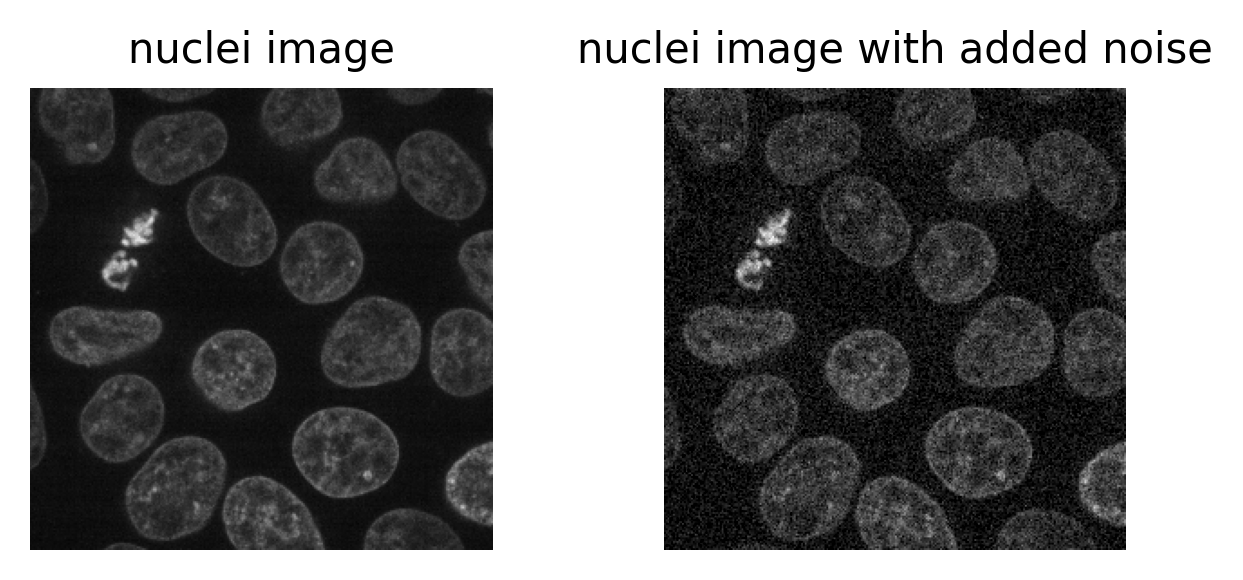
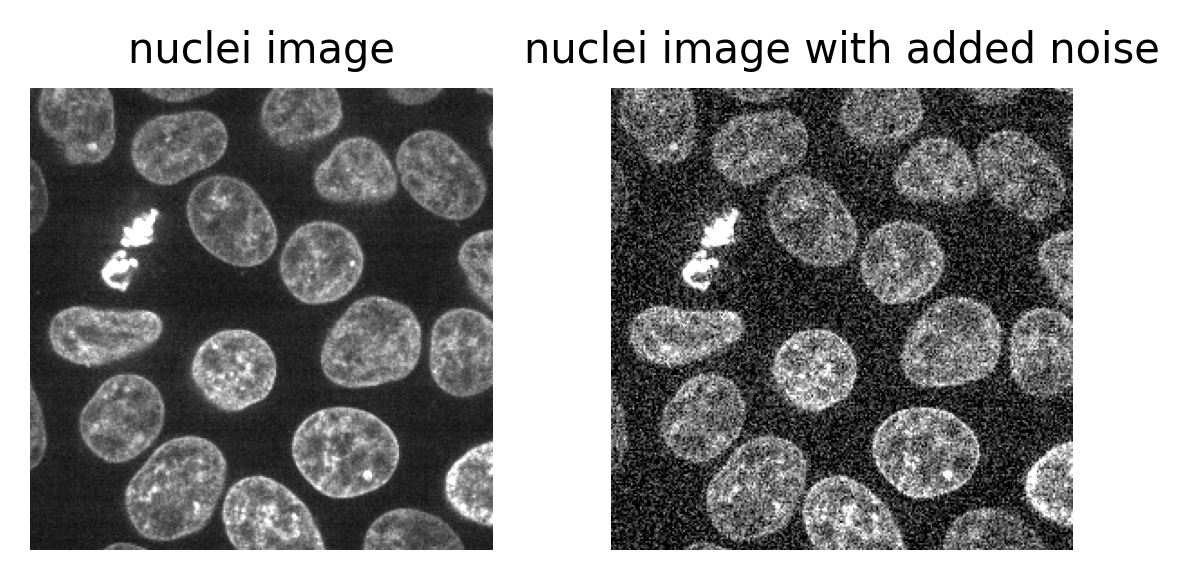
revise acquisition settings episode

diff --git a/episodes/files/choosing_acquisition_settings_plots/image_with_noise.py b/episodes/files/choosing_acquisition_settings_plots/image_with_noise.py
@@ -23,10 +23,11 @@ def generate_image_with_noise(save_dir):
     nucleus_noisy = nucleus + np.random.normal(scale=5000.0, size=nucleus.shape)
 
     fig, all_axes = plt.subplots(1, 2)
+    fig.subplots_adjust(wspace=0)
     fig.set_size_inches(5, 2)
 
     min = 0
-    max = 65535
+    max = 29713
     plot_image(nucleus, min, max, plt.cm.gray, all_axes[0], "nuclei image")
     plot_image(nucleus_noisy, min, max, plt.cm.gray, all_axes[1], "nuclei image with added noise")
 

diff --git a/episodes/choosing-acquisition-settings.md b/episodes/choosing-acquisition-settings.md
@@ -40,22 +40,23 @@ as well as looking at some early quality control steps.
 ## Acquisition settings
 
 Once you've chosen a light microscope to use, there are a wide variety of 
-acquisition settings that can be adjusted. For example, magnification, laser 
-power, exposure time... Different combinations of settings will be best for 
-different samples and research questions. For example, one combination of 
+acquisition settings that can be adjusted. Acquisition settings commonly 
+optimised for an experiment include magnification, laser power, and exposure 
+time, but there are many others. Different combinations of settings will be best 
+for different samples and research questions. For example, one combination of 
 settings may be best for rapid live cell imaging, while another may be best for 
 high resolution imaging of fixed samples.
 
 There are many different factors that are affected by acquisition settings, but 
-here are some of the main ones to consider:
+here are some of the main ones to consider.
 
 ## Spatial resolution
 
-Spatial resolution is the resolution in 2D (x and y), or 3D (x, y and z). It is 
-defined as the smallest distance between two points on a sample that can still 
-be seen as separate entities. For example, a resolution of one micrometre would 
-mean that objects less than one micrometre apart couldn't be identified 
-separately (i.e. they would appear as one object).
+Spatial resolution is defined as the smallest distance between two adjacent 
+points on a sample that can still be seen as separate entities. In 2D, this is 
+measured in x and y, while in 3D it is measured in x, y and z. For example, a 
+resolution of one micrometre would mean that objects less than one micrometre 
+apart couldn't be identified separately (i.e. they would appear as one object).
 
 Spatial resolution is affected by many factors including the wavelength of light 
 and the [numerical aperture (NA)
@@ -69,6 +70,21 @@ datasets, where the x/y resolution tends to be better than the z resolution.
 
 We'll look at spatial resolution in more detail [later in this episode
 ](#resolution-vs-pixel-size).
+
+:::::::::::::::::::::::::::::::::::::: callout
+
+## Spatial resolution and optical resolution
+
+In this episode, we use 'spatial resolution' to refer to the resolution limits 
+of the light microscope. Note that sometimes 'spatial resolution' is also used 
+to refer to the final image pixel size (as we will look at [later in this 
+episode](#resolution-vs-pixel-size)). Due to this ambiguity, you may also see 
+the microscope's resolution referred to as 'optical resolution' to clearly 
+distinguish it from pixel size.
+
+::::::::::::::::::::::::::::::::::::::
+
+
 
 ## Temporal resolution
 
@@ -94,7 +110,8 @@ as much light as possible in these short timescales.
 The field of view is the size of the area you can view with your light 
 microscope. It is often measured as a diameter in millimetres. A larger field of 
 view is useful if you want to, for example, observe a large number of cells at 
-the same time.
+the same time. This can quickly increase your sample size, providing 
+improved statistical power (as covered in the [last episode](designing-a-light-microscopy-experiment.md#define-what-you-need-to-measure)).
 
 The field of view is affected by many factors but, importantly, is directly 
 related to the magnification of the objective lens. Higher levels of 
@@ -106,6 +123,26 @@ then be stitched together (often with the microscope manufacturer's acquisition
 software), to give one large final image. This method can provide high 
 resolution images of large areas, but also slows down overall acquisition times.
 
+## Depth penetration
+
+Depth penetration refers to the distance light can penetrate into your sample 
+(in the z direction). It therefore controls the maximum z range that you can 
+image over - for example, a specific confocal microscope may be limited to a 
+maximum depth of 50 micrometre. 
+
+Depth penetration is limited due to samples absorbing and scattering light that 
+passes through them. Various factors control the penetration depth - for 
+example, the density of the sample and the wavelength of light used during 
+imaging. Various [tissue clearing
+](https://www.nature.com/articles/s43586-021-00080-9) methods exist that can 
+help to make a sample more transparent, and allow imaging at greater depths. 
+Also, the use of longer wavelengths of light can reduce absorption/scattering 
+and increase depth penetration. This comes at the cost of decreased spatial 
+resolution (as we covered in the [spatial resolution section
+](#spatial-resolution)). For very thick samples, you will likely need to use a 
+microscope specialised for this task e.g. a [multiphoton microscope
+](https://www.microscopyu.com/techniques/multi-photon/multiphoton-microscopy).
+
 ## Data size
 
 It's important to consider the overall size of your imaging data (e.g. in 
@@ -115,14 +152,15 @@ file storage space that is regularly backed up.
 
 The overall size of your data will depend on many factors. For example, 
 increasing your resolution will increase the size of your final images, 
-especially if you are covering a large area by stitching in x/y.
+especially if you are covering a large area by stitching multiple images taken 
+at different positions together.
 
 ## Light exposure (i.e phototoxicity / photobleaching)
 
 Illuminating our samples with light is an essential part of collecting light 
-microscopy images. This being said, we have to be very careful of the 
-detrimental effects light can have on our samples, especially at high intensity 
-over long time periods. 
+microscopy images. However, we must also be mindful of the detrimental effects 
+light can have on our samples, especially at high intensity over long time 
+periods. 
 
 Photobleaching is a key issue for fluorescence microscopy. If a fluorophore is 
 exposed to intense light, its structure can degrade over time. This means that 
@@ -132,9 +170,9 @@ Another issue is phototoxicity. Light exposure can damage cells resulting in
 unexpected changes in cell behaviour, morphology and eventually cell death.
 
 Reducing the effects of photobleaching and phototoxicity requires minimising the 
-light exposure of our samples as much as possible. For example, reducing 
-light/laser power, reducing exposure time/dwell time, imaging at lower temporal 
-resolution...
+light exposure of our samples as much as possible. Light exposure can be 
+reduced through many methods, including reducing light/laser power, reducing 
+exposure time/dwell time, and imaging at lower temporal resolution.
 
 ## Signal to noise ratio
 
@@ -146,8 +184,10 @@ The 'signal' is what we really want to measure - for example, for a fluorescence
 microscopy image, this would be the light emitted by fluorophores in the sample. 
 In an ideal world the detector would perfectly measure the light intensity, but 
 this isn't really possible. The values the detector records will always be 
-affected by random fluctuations called 'noise'. This noise usually appears as a 
-random 'graininess' over the image and can make details difficult to see.
+affected by random fluctuations called 'noise' (see the ['where does noise 
+come from?'](#where-does-noise-come-from) section for more information). This 
+noise usually appears as a random 'graininess' over the image and can make 
+details difficult to see.
 
 ![](fig/image-with-noise.png){alt="Left - the nuclei from Napari's Cells 
 (3D+2Ch) sample image. Right - same image with added gaussian noise"}
@@ -162,19 +202,23 @@ left is the ideal scenario, where there is no noise, and we perfectly see one
 value of 20 and one of 30. The middle shows the addition of some noise to each 
 value, resulting in wider distributions that overlap extensively. This means 
 that in the combined histogram of these values (right) it becomes impossible to 
-clearly distinguish these two values.
+clearly distinguish these two values. Note - here the added noise is a gaussian 
+distribution centred on each value (i.e. 20 and 30) with a standard deviation of 
+10 and 1000 samples - you can read more about gaussian noise in the [noise chapter
+](https://bioimagebook.github.io/chapters/3-fluorescence/3-formation_noise/formation_noise.html) 
+of Pete Bankhead's bioimage book.
 
 ![](fig/snr-comparison-low.png){alt="Diagram of a low signal-to-noise scenario. 
 Left - histogram with no noise. Middle - histogram with added noise (separate 
 histograms). Right - histogram with added noise (combined histogram)."}
 
 If we imagine a scenario with higher signal, now values of 80 and 120 (one still 
-1.5x higher than the other), then we can see that the addition of the same noise 
-has a much less drastic effect. As the values are now higher and further apart, 
-the broadening of their distributions only causes them to overlap slightly. We 
-can still clearly distinguish the values in the combined histogram on the right. 
-This demonstrates how increasing the signal to noise ratio can improve our 
-ability to recognise and measure different features.
+1.5x higher than the other), then we can see that adding the same level of noise 
+has less effect. As the values are now higher and further apart, the broadening 
+of their distributions only causes them to overlap slightly. We can still 
+clearly distinguish the values in the combined histogram on the right. This 
+demonstrates how increasing the signal to noise ratio can improve our ability to 
+recognise and measure different features.
 
 ![](fig/snr-comparison-high.png){alt="Diagram of a high signal-to-noise scenario. 
 Left - histogram with no noise. Middle - histogram with added noise (separate 
@@ -227,17 +271,18 @@ hit the detector - no detector is perfect, so there will always be some variatio
 
 ## Optimising acquisition settings
 
-In an ideal world we could produce the 'perfect' image that optomised for all of 
+In an ideal world we could produce the 'perfect' image that optimised for all of 
 the features above: high spatial resolution, high temporal resolution, large 
-field of view, small data size, low light exposure and high signal to noise 
-ratio. This is never possible though! There are always trade-offs and 
-compromises to be made. These different factors are inter-related, usually 
-meaning that optomising for one will reduce the others. For example, increasing 
-spatial resolution requires a reduced field of view and an increased overall 
-data size. As each pixel covers a smaller area, resulting in less signal per 
-pixel, you will likely need to increase light exposure to achieve a reasonable 
-signal to noise ratio. This may mean using higher light intensity, or imaging 
-more slowly (with increased dwell time/exposure time).
+field of view, large depth penetration, small data size, low light exposure and 
+high signal to noise ratio. This is never possible though! There are always 
+trade-offs and compromises to be made. These different factors are 
+inter-related, usually meaning that optimising for one will be at the expense of 
+the others. For example, increasing spatial resolution requires a reduced field 
+of view, and it will increase the overall data size. As each pixel covers a 
+smaller area, resulting in less signal per pixel, you will likely need to 
+increase light exposure to achieve a comparable signal to noise ratio. This may 
+mean using higher light intensity, or imaging more slowly (with increased dwell 
+time/exposure time).
 
 ![](fig/acquisition-tradeoffs.png){alt="Diagram highlighting some of the 
 trade-offs of increasing spatial resolution" width="80%"}
@@ -245,7 +290,7 @@ trade-offs of increasing spatial resolution" width="80%"}
 Different microscopes will provide different ranges for these features - for 
 example, supporting different ranges of spatial or temporal resolution, or 
 providing detectors with different sensitivity that require higher or lower 
-light intensity. Acqusition settings then allow you to fine-tune how that 
+light intensity. Acquisition settings then allow you to fine-tune how that 
 microscope functions, optimising within these ranges for your particular sample 
 and research question. For example, do you need to prioritise temporal 
 resolution for a highly dynamic process? Or perhaps is spatial resolution the 
@@ -293,7 +338,10 @@ times. We must balance this against signal to noise ratio though.
 As we are taking many images over a long timescale, our data size could become 
 very large. To minimise this, we should make sure we are using the lowest 
 spatial resolution possible (that still lets us see individual nucleus 
-size/shape). Also, we should ensure we are using an appropriate interval between 
+size/shape). Usually this means selecting a lower NA objective lens (which is 
+usually also a lower magnification objective lens). 
+
+Also, we should ensure we are using an appropriate interval between 
 our images. For example, do you need an image every minute? Or is every ten 
 minutes fine? Longer intervals will reduce the size of your final dataset.
 
@@ -314,6 +362,13 @@ provides enough spatial resolution to see individual nuclei. Alternatively, we
 will need to stitch images together from multiple positions - although this will 
 slow down acquisition, and must be balanced against the required temporal 
 resolution!
+
+### Depth penetration
+
+As we are considering cells grown in culture (rather than in thick tissues), 
+depth penetration isn't a key concern here. This means we shouldn't have to, for 
+example, limit ourselves to fluorophores with longer emission wavelengths, or 
+require any additional preparation steps like tissue clearing.
 
 :::::::::::::::::::::::::::::::::
 
@@ -428,11 +483,10 @@ displayed at 9cm wide, then the result will be the same, 5000x.
 
 ::::::::::::::::::::::::::::::::::::::::::::::::
 
-### Choosing spatial resolution
+### Choosing magnification, spatial resolution and pixel size
 
 Now that we understand the difference between magnification, resolution and 
-pixel size - how do we go about choosing the spatial resolution to use in our 
-experiments? 
+pixel size - how do we go about choosing their values for our experiments? 
 
 The most important thing is to only use the level of resolution that you really 
 require to answer your research question. For example, say you were researching 
@@ -443,9 +497,78 @@ the larger layers could be seen at much lower resolution, allowing you to image
 a larger area faster, while also keeping your data size as small as possible. 
 Don't increase your resolution without a good reason!  
 
-Equally, you have to be careful not to set your resolution too low. Make sure 
-that it is high enough to resolve the smallest structure you want to be able to 
-see and measure.
+[As discussed above](#spatial-resolution), a number of factors affect the 
+spatial resolution - but one of the most important is your choice of objective 
+lens. Each microscope will usually have a selection of objective lenses 
+available (each with a different magnification and numerical aperture (NA)). In 
+general, higher NA lenses (which provide a higher spatial resolution) will also 
+provide higher levels of magnification. Choose the lowest NA/magnification 
+objective that still provides enough spatial resolution to resolve the smallest 
+structure you want to be able to see and measure. Table 1 of [Jonkman et al.'s 
+2020 paper](https://www.nature.com/articles/s41596-020-0313-9) provides a nice 
+summary of some common objective lenses.
+
+The pixel size of your final image should be matched appropriately to your 
+chosen objective lens (and therefore the spatial resolution/magnification used). 
+This is usually set to satisfy 'Nyquist sampling' which states that the pixel 
+size should be two to three times smaller than the smallest feature you want to 
+capture in your images. Let's look at a quick example of why this is necessary. 
+
+Consider the diagram below - on the left is shown two round cells (blue) that 
+have a diameter of 10 micrometre and are overlaid by a pixel grid with the same 
+spacing. On the right is shown the equivalent final image, using a rough 
+grayscale colourmap (black = 0, white = maximum).
+
+![](fig/nyquist-1.png){alt="Left - a diagram of two round cells (blue, 10 
+micrometre wide) overlaid by a perfectly aligned 10 micrometre pixel grid. 
+Right - the equivalent image with a grayscale colormap" width="80%"}
+
+When the cells lie at the centre of each pixel, we can easily detect them as 
+separate objects in our final image. The issue comes when the cells are offset 
+from the pixel grid - which will happen very regularly in a real life scenario! 
+Keeping the same 10 micrometre spacing, but offsetting the grid slightly results 
+in a final image where where we can no longer separate the two cells:
+
+![](fig/nyquist-2.png){alt="Left - a diagram of two round cells (blue, 10 
+micrometre wide) overlaid by a misaligned 10 micrometre pixel grid. 
+Right - the equivalent image with a grayscale colormap" width="80%"}
+
+Only by decreasing the pixel size (e.g. to 5 micrometre) can we be sure to 
+capture the two cells, no matter their alignment with the grid:
+
+![](fig/nyquist-3.png){alt="Left - a diagram of two round cells (blue, 10 
+micrometre wide) overlaid by a 5 micrometre pixel grid. 
+Right - the equivalent image with a grayscale colormap" width="80%"}
+
+Failing to meet the Nyquist critera can also result in various image artifacts 
+known as 'aliasing'. For example, consider the digram below - here we have 6 
+small cells (blue) that are evenly spaced in the x direction. Using a pixel 
+spacing of 10 micrometre, this produces an odd effect in our final image, where 
+we see a repeating pattern that is much wider than the real spacing of our cells.
+
+![](fig/aliasing.png){alt="Top - a diagram of six round cells (blue, 5 
+micrometre wide) overlaid by a 10 micrometre pixel grid. 
+Bottom - the equivalent image with a grayscale colormap" width="80%"}
+
+This is an example of aliasing where a high frequency detail in the image (the 
+repeating pattern of small cells) is aliased to give a false lower frequency 
+pattern. Aliasing and Nyquist sampling are important considerations for all 
+fields where an analog signal is converted to a digital one - for example, 
+digital audio and video, as well as images.
+
+Most acquisition software will automatically provide sensible defaults that meet 
+the Nyquist criteria (taking into account the configuration of your microscope 
+and other acquisition settings). For example, for a laser scanning confocal, 
+this will adjust the z-step used and the x/y spacing of points sampled with the 
+laser. The main point is to avoid:
+
+- Undersampling: Our pixel size is too large to accurately preserve the spatial 
+resolution in the resulting digital image (i.e. we haven't achieved Nyquist 
+sampling)
+
+- Oversampling: Our pixel size is too small, exceeding that required for Nyquist 
+sampling. This results in larger images, with far more pixels, without providing 
+any extra useful spatial information.
 
 ## Initial quality control
 
